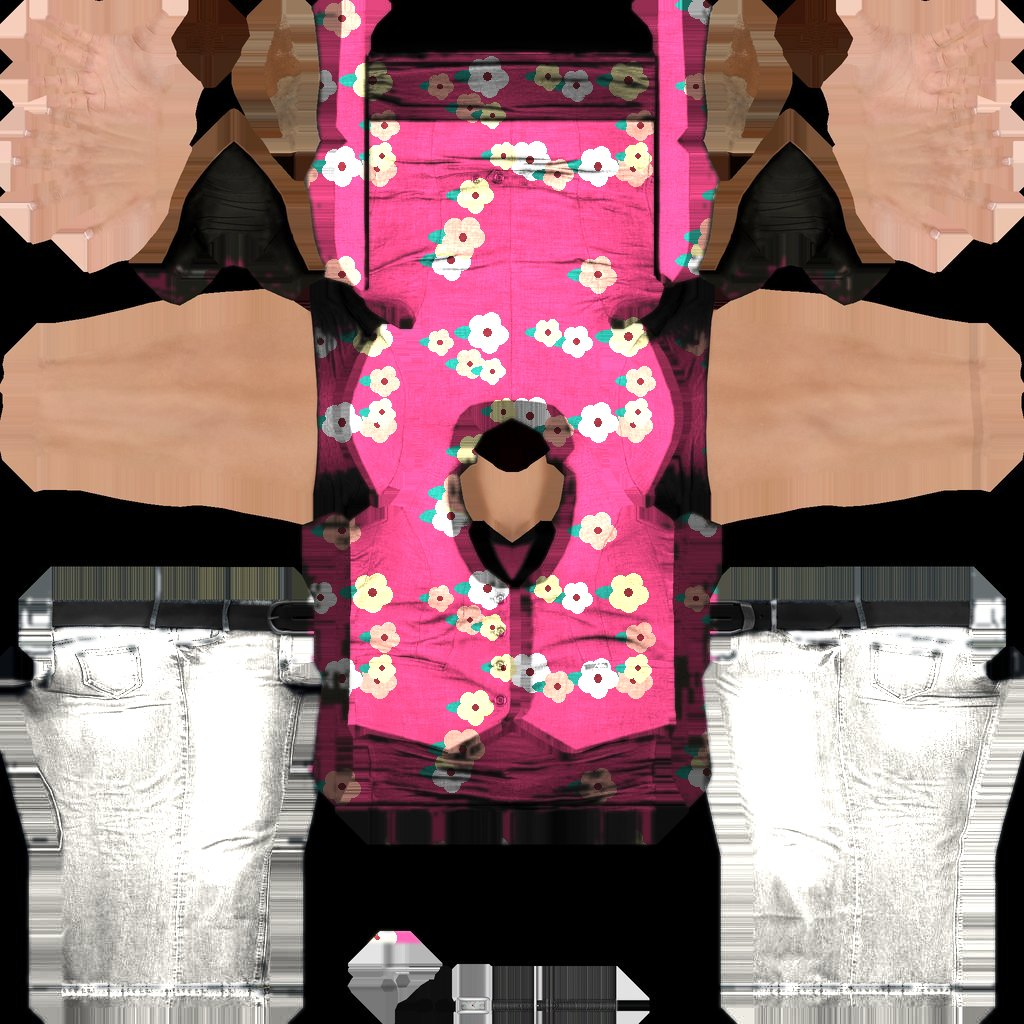
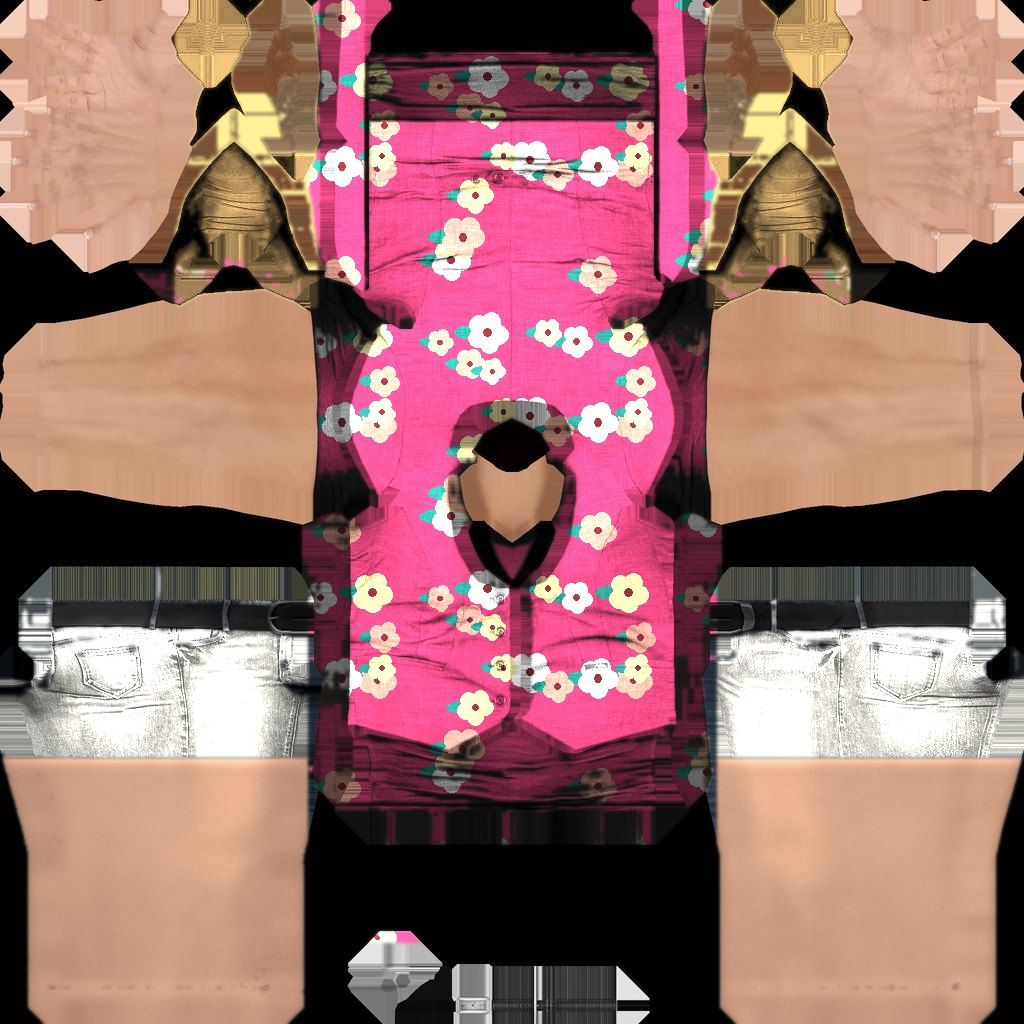
Holiday outfits for the pool crowd
tools/beachwear.py can now turn trousers into shorts: it paints the
lower legs in the avatar's own skin tone (sampled from the hands) and
writes a matching body_beach_normal.jpg with the fabric creases
smoothed out, which humans.js loads for beachwear outfits.

- Gordon: Hawaiian shirt and orange floral board shorts.
- Doris: floral top, white shorts and tan sandals (plus the sun hat).
- Walt: loud teal holiday shirt, khaki shorts, white socks and sandals.
- Chad: red lifeguard trunks.

Build 16.

Claude-Session: https://claude.ai/code/session_01FFfq1YQuGr97TV8Kzry5mq

diff --git a/island/index.html b/island/index.html
@@ -10,28 +10,28 @@
   "imports": {
     "three": "./vendor/three.module.js",
     "three/addons/": "./vendor/addons/",
-    "./src/assets.js": "./src/assets.js?v=15",
-    "./src/audio.js": "./src/audio.js?v=15",
-    "./src/dialogue.js": "./src/dialogue.js?v=15",
-    "./src/dolphin.js": "./src/dolphin.js?v=15",
-    "./src/game.js": "./src/game.js?v=15",
-    "./src/humans.js": "./src/humans.js?v=15",
-    "./src/layout.js": "./src/layout.js?v=15",
-    "./src/main.js": "./src/main.js?v=15",
-    "./src/noise.js": "./src/noise.js?v=15",
-    "./src/people.js": "./src/people.js?v=15",
-    "./src/player.js": "./src/player.js?v=15",
-    "./src/pool.js": "./src/pool.js?v=15",
-    "./src/post.js": "./src/post.js?v=15",
-    "./src/props.js": "./src/props.js?v=15",
-    "./src/sky.js": "./src/sky.js?v=15",
-    "./src/terrain.js": "./src/terrain.js?v=15",
-    "./src/textures.js": "./src/textures.js?v=15",
-    "./src/touch.js": "./src/touch.js?v=15",
-    "./src/ui.js": "./src/ui.js?v=15",
-    "./src/water.js": "./src/water.js?v=15",
-    "./src/weather.js": "./src/weather.js?v=15",
-    "./src/wildlife.js": "./src/wildlife.js?v=15"
+    "./src/assets.js": "./src/assets.js?v=16",
+    "./src/audio.js": "./src/audio.js?v=16",
+    "./src/dialogue.js": "./src/dialogue.js?v=16",
+    "./src/dolphin.js": "./src/dolphin.js?v=16",
+    "./src/game.js": "./src/game.js?v=16",
+    "./src/humans.js": "./src/humans.js?v=16",
+    "./src/layout.js": "./src/layout.js?v=16",
+    "./src/main.js": "./src/main.js?v=16",
+    "./src/noise.js": "./src/noise.js?v=16",
+    "./src/people.js": "./src/people.js?v=16",
+    "./src/player.js": "./src/player.js?v=16",
+    "./src/pool.js": "./src/pool.js?v=16",
+    "./src/post.js": "./src/post.js?v=16",
+    "./src/props.js": "./src/props.js?v=16",
+    "./src/sky.js": "./src/sky.js?v=16",
+    "./src/terrain.js": "./src/terrain.js?v=16",
+    "./src/textures.js": "./src/textures.js?v=16",
+    "./src/touch.js": "./src/touch.js?v=16",
+    "./src/ui.js": "./src/ui.js?v=16",
+    "./src/water.js": "./src/water.js?v=16",
+    "./src/weather.js": "./src/weather.js?v=16",
+    "./src/wildlife.js": "./src/wildlife.js?v=16"
   }
 }
     </script>
@@ -130,10 +130,10 @@
           <kbd>W A S D</kbd> walk · <kbd>Mouse</kbd> look · <kbd>Shift</kbd> run · <kbd>Space</kbd> jump ·
           <kbd>C</kbd> dive · <kbd>E</kbd> interact · <kbd>J</kbd> journal · Best with sound on, on a computer.<br /><small>Photoscanned textures and models: Poly Haven (CC0) · Characters: Microsoft Rocketbox (MIT) · Palms, plants, loungers and animals: Next Spring, evolveduk, MozzarellaARC, nonsenseblve, Allie2k, Bohdan Lvov, kenchoo, Ra_in_coat, vicente betoret ferrero, LasquetiSpice, Mateus Schwaab on Sketchfab (CC BY 4.0)</small>
         </p>
-        <p class="build">Build 15</p>
+        <p class="build">Build 16</p>
       </div>
     </div>
 
-    <script type="module" src="src/main.js?v=15"></script>
+    <script type="module" src="src/main.js?v=16"></script>
   </body>
 </html>

diff --git a/island/src/humans.js b/island/src/humans.js
@@ -18,12 +18,12 @@ export const CASTING = {
 };
 export const EXTRAS = [
   { avatar: 'Sports_Female_01', sex: 'f', idle: 'f_calm', key: 'skye', selfie: true },
-  { avatar: 'Sports_Male_01', sex: 'm', idle: 'm_look', key: 'chad', hat: 'visor' },
+  { avatar: 'Sports_Male_01', sex: 'm', idle: 'm_look', key: 'chad', hat: 'visor', beachwear: true },
   { avatar: 'Female_Party_01', sex: 'f', idle: 'f_calm', evening: 'f_dance' },
   // The pool crowd.
   { avatar: 'Male_Adult_03', sex: 'm', idle: 'm_breathe', key: 'gordon', beachwear: true, drink: true },
   { avatar: 'Female_Adult_13', sex: 'f', idle: 'f_nervous', key: 'doris', beachwear: true, hat: 'sunhat' },
-  { avatar: 'Male_Adult_05', sex: 'm', idle: 'm_idle', key: 'walt' },
+  { avatar: 'Male_Adult_05', sex: 'm', idle: 'm_idle', key: 'walt', beachwear: true },
 ];
 
 // Binary data ships as base64 inside JSON so any static host will serve it.
@@ -108,7 +108,8 @@ async function loadAvatar(name, texLoader, fbxLoader, beachwear = false) {
   });
   const [bodyC, bodyN, headC, headN, opacity] = await Promise.all([
     (beachwear ? tex('body_beach.jpg', true) : Promise.resolve(null)).then((t) => t || tex('body_color.jpg', true)),
-    tex('body_normal.jpg'),
+    // Outfits that bare the legs come with smoothed normals for the skin.
+    (beachwear ? tex('body_beach_normal.jpg') : Promise.resolve(null)).then((t) => t || tex('body_normal.jpg')),
     tex('head_color.jpg', true),
     tex('head_normal.jpg'),
     hasOpacity ? tex('opacity.png', true) : null,

diff --git a/island/tools/beachwear.py b/island/tools/beachwear.py
@@ -114,31 +114,88 @@ def pearl(img):
     return recolour(img, soft(top), hex_rgb('#10a7a2'))
 
 
+def bare_skin(img, mask, sample):
+    """Paint `mask` as bare skin, matching the avatar's own skin tone (taken
+    from the `sample` area, e.g. the hands) with soft shading and a little
+    grain. Returns the image and the painted mask (for flattening normals)."""
+    r, g, b, mx, sat = channels(img)
+    is_skin = sample & (r > b + 25) & (r > g + 5) & (r > 110)
+    tone = np.median(img[is_skin].astype(float), axis=0) / 255
+    lum = np.asarray(Image.fromarray(img).convert('L').filter(ImageFilter.GaussianBlur(6)), float)
+    m = mask > 0.5
+    rel = (lum / max(lum[m].mean(), 1) - 1) * 0.25 + 1
+    noise = np.random.default_rng(3).normal(0, 0.012, img.shape[:2])
+    paint = np.clip(tone[None, None, :] * (rel + noise)[..., None], 0, 1)
+    a = mask[..., None]
+    out = img.astype(float) / 255 * (1 - a) + paint * a
+    return (out * 255).astype(np.uint8), mask
+
+
 def gordon(img):
     # Tweed blazer and red jumper -> Hawaiian shirt (worn in the pool);
-    # dark trousers -> orange swim shorts.
+    # trousers -> orange board shorts above the knee, bare legs below.
     r, g, b, mx, sat = channels(img)
     skin = (r > b + 25) & (r > g + 5) & (r > 120)
     shoes = rect(img.shape, 0.2, 0.42, 0.84, 1) | rect(img.shape, 0.58, 0.8, 0.84, 1)
     cloth = (mx > 14) & ~skin & ~shoes
-    legs = (rect(img.shape, 0, 0.3, 0, 0.43) | rect(img.shape, 0.7, 1, 0, 0.43)) & cloth
+    leg_area = rect(img.shape, 0, 0.3, 0, 0.45) | rect(img.shape, 0.7, 1, 0, 0.45)
+    legs = leg_area & cloth
+    shorts = legs & rect(img.shape, 0, 1, 0, 0.235)
+    shins = legs & ~shorts
     shirt = cloth & ~legs & ~rect(img.shape, 0, 1, 0.84, 1)
-    img = recolour(img, soft(legs), hex_rgb('#ff8c42'))
-    return recolour(img, soft(shirt), hawaiian(img.shape[0], base='#1f6fb2', petals=('#ffd166', '#ffffff', '#ff7b54'), seed=9))
+    img = recolour(img, soft(shorts), hawaiian(img.shape[0], base='#ff8c42', petals=('#fff3b0', '#ffffff', '#3a86ff'), leaf='#ffbe0b', seed=21))
+    img = recolour(img, soft(shirt), hawaiian(img.shape[0], base='#1f6fb2', petals=('#ffd166', '#ffffff', '#ff7b54'), seed=9))
+    return bare_skin(img, soft(shins), rect(img.shape, 0, 1, 0.84, 1))
 
 
 def doris(img):
-    # Grey cardigan -> hot-pink floral cover-up; jeans -> white capris.
+    # Grey cardigan -> hot-pink floral top; jeans -> white shorts, bare legs.
     r, g, b, mx, sat = channels(img)
     jeans = (b > r + 12) & (mx > 25)
     grey = (sat < 0.16) & (mx > 22) & ~jeans
     top = grey & (rect(img.shape, 0.3, 0.7, 0.0, 0.92) | rect(img.shape, 0.0, 0.3, 0.25, 0.55) | rect(img.shape, 0.7, 1.0, 0.25, 0.55))
-    img = recolour(img, soft(jeans), hex_rgb('#f2efe7'))
-    return recolour(img, soft(top), hawaiian(img.shape[0], base='#e0457b', petals=('#fff3b0', '#ffffff', '#ffb4a2'), leaf='#2a9d8f', seed=12))
+    leg_area = rect(img.shape, 0, 0.3, 0.55, 1) | rect(img.shape, 0.7, 1, 0.55, 1)
+    shorts = jeans & leg_area & rect(img.shape, 0, 1, 0, 0.74)
+    shins = (jeans | ((mx > 20) & (mx < 90))) & leg_area & rect(img.shape, 0, 1, 0.74, 1)
+    img = recolour(img, soft(shorts), hex_rgb('#f7f4ec'))
+    # Her black shoes sit beside the top in the texture.
+    sandals = (rect(img.shape, 0.17, 0.31, 0, 0.3) | rect(img.shape, 0.69, 0.83, 0, 0.3)) & (mx > 8) & ~((r > b + 25) & (r > g + 5) & (r > 110))
+    img = recolour(img, soft(sandals), hex_rgb('#c8a165'))
+    img = recolour(img, soft(top), hawaiian(img.shape[0], base='#e0457b', petals=('#fff3b0', '#ffffff', '#ffb4a2'), leaf='#2a9d8f', seed=12))
+    return bare_skin(img, soft(shins), rect(img.shape, 0, 0.3, 0, 0.25) | rect(img.shape, 0.7, 1, 0, 0.25))
+
+
+def walt(img):
+    # Safari vest and field shirt -> loud parrot-coloured holiday shirt;
+    # trousers -> khaki shorts; white socks with brown sandals. A classic.
+    # (The khaki vest is skin-coloured, so only count the hands as skin.)
+    r, g, b, mx, sat = channels(img)
+    skin = (r > b + 25) & (r > g + 5) & (r > 120) & rect(img.shape, 0, 1, 0.84, 1)
+    shoes = rect(img.shape, 0.2, 0.42, 0.84, 1) | rect(img.shape, 0.58, 0.8, 0.84, 1)
+    cloth = (mx > 14) & ~skin & ~shoes
+    leg_area = rect(img.shape, 0, 0.3, 0, 0.45) | rect(img.shape, 0.7, 1, 0, 0.45)
+    legs = leg_area & cloth
+    shorts = legs & rect(img.shape, 0, 1, 0, 0.235)
+    socks = legs & rect(img.shape, 0, 1, 0.36, 0.45)
+    shins = legs & ~shorts & ~socks
+    shirt = cloth & ~legs & ~rect(img.shape, 0, 1, 0.84, 1)
+    img = recolour(img, soft(shorts), hex_rgb('#cdb68a'))
+    img = recolour(img, soft(socks), hex_rgb('#fbfbf7'))
+    img = recolour(img, soft(shoes & (mx > 14)), hex_rgb('#6b4226'))
+    img = recolour(img, soft(shirt), hawaiian(img.shape[0], base='#00a6a6', petals=('#ff595e', '#ffca3a', '#ffffff'), leaf='#1b5e20', seed=31))
+    return bare_skin(img, soft(shins), rect(img.shape, 0, 1, 0.84, 1))
+
+
+def chad(img):
+    # Black swim trunks -> classic red lifeguard trunks.
+    r, g, b, mx, sat = channels(img)
+    skin = (r > b + 25) & (r > g + 5) & (r > 110)
+    trunks = (rect(img.shape, 0, 0.3, 0, 0.13) | rect(img.shape, 0.7, 1, 0, 0.13)) & ~skin & (mx > 5)
+    return recolour(img, soft(trunks), hex_rgb('#d62828'))
 
 
 OUTFITS = {'Male_Adult_12': dez, 'Female_Adult_01': brenda, 'Male_Adult_14': captain, 'Female_Adult_14': pearl,
-           'Male_Adult_03': gordon, 'Female_Adult_13': doris}
+           'Male_Adult_03': gordon, 'Female_Adult_13': doris, 'Male_Adult_05': walt, 'Sports_Male_01': chad}
 
 if __name__ == '__main__':
     only = set(sys.argv[1:])
@@ -147,5 +204,16 @@ if __name__ == '__main__':
             continue
         src = os.path.join(ROOT, name, 'body_color.jpg')
         img = np.asarray(Image.open(src).convert('RGB'))
-        Image.fromarray(fn(img)).save(os.path.join(ROOT, name, 'body_beach.jpg'), 'JPEG', quality=86, optimize=True)
+        out = fn(img)
+        bare = None
+        if isinstance(out, tuple):
+            out, bare = out
+        Image.fromarray(out).save(os.path.join(ROOT, name, 'body_beach.jpg'), 'JPEG', quality=86, optimize=True)
+        if bare is not None:
+            # Bare skin shouldn't keep the trousers' creases: flatten the normals there.
+            nrm = np.asarray(Image.open(os.path.join(ROOT, name, 'body_normal.jpg')).convert('RGB'), float)
+            flat = np.array([128, 128, 255], float)
+            a = (bare * 0.85)[..., None]
+            nrm = nrm * (1 - a) + flat * a
+            Image.fromarray(nrm.astype(np.uint8)).save(os.path.join(ROOT, name, 'body_beach_normal.jpg'), 'JPEG', quality=88, optimize=True)
         print(name, 'done')

diff --git a/island/assets/CREDITS.md b/island/assets/CREDITS.md
@@ -43,10 +43,10 @@ Textures were downsized from 2K TGA to 1K JPEG/PNG with `tools/rocketbox_texture
 | Marisol | Female_Adult_03 |
 | Nana Pearl | Female_Adult_14 |
 | Skye Marlowe | Sports_Female_01 |
-| Chad Bronson (lifeguard) | Sports_Male_01 |
-| Gordon Pratt | Male_Adult_03 (recoloured: Hawaiian shirt) |
-| Doris Huxley | Female_Adult_13 (recoloured: floral cover-up) |
-| Walt Huxley | Male_Adult_05 |
+| Chad Bronson (lifeguard) | Sports_Male_01 (recoloured: red trunks) |
+| Gordon Pratt | Male_Adult_03 (recoloured: Hawaiian shirt, board shorts) |
+| Doris Huxley | Female_Adult_13 (recoloured: floral top, white shorts, sandals) |
+| Walt Huxley | Male_Adult_05 (recoloured: holiday shirt, khaki shorts, socks and sandals) |
 | Beachgoer | Female_Party_01 |
 
 ## Palms, plants, loungers and animals (`sketchfab/`)
